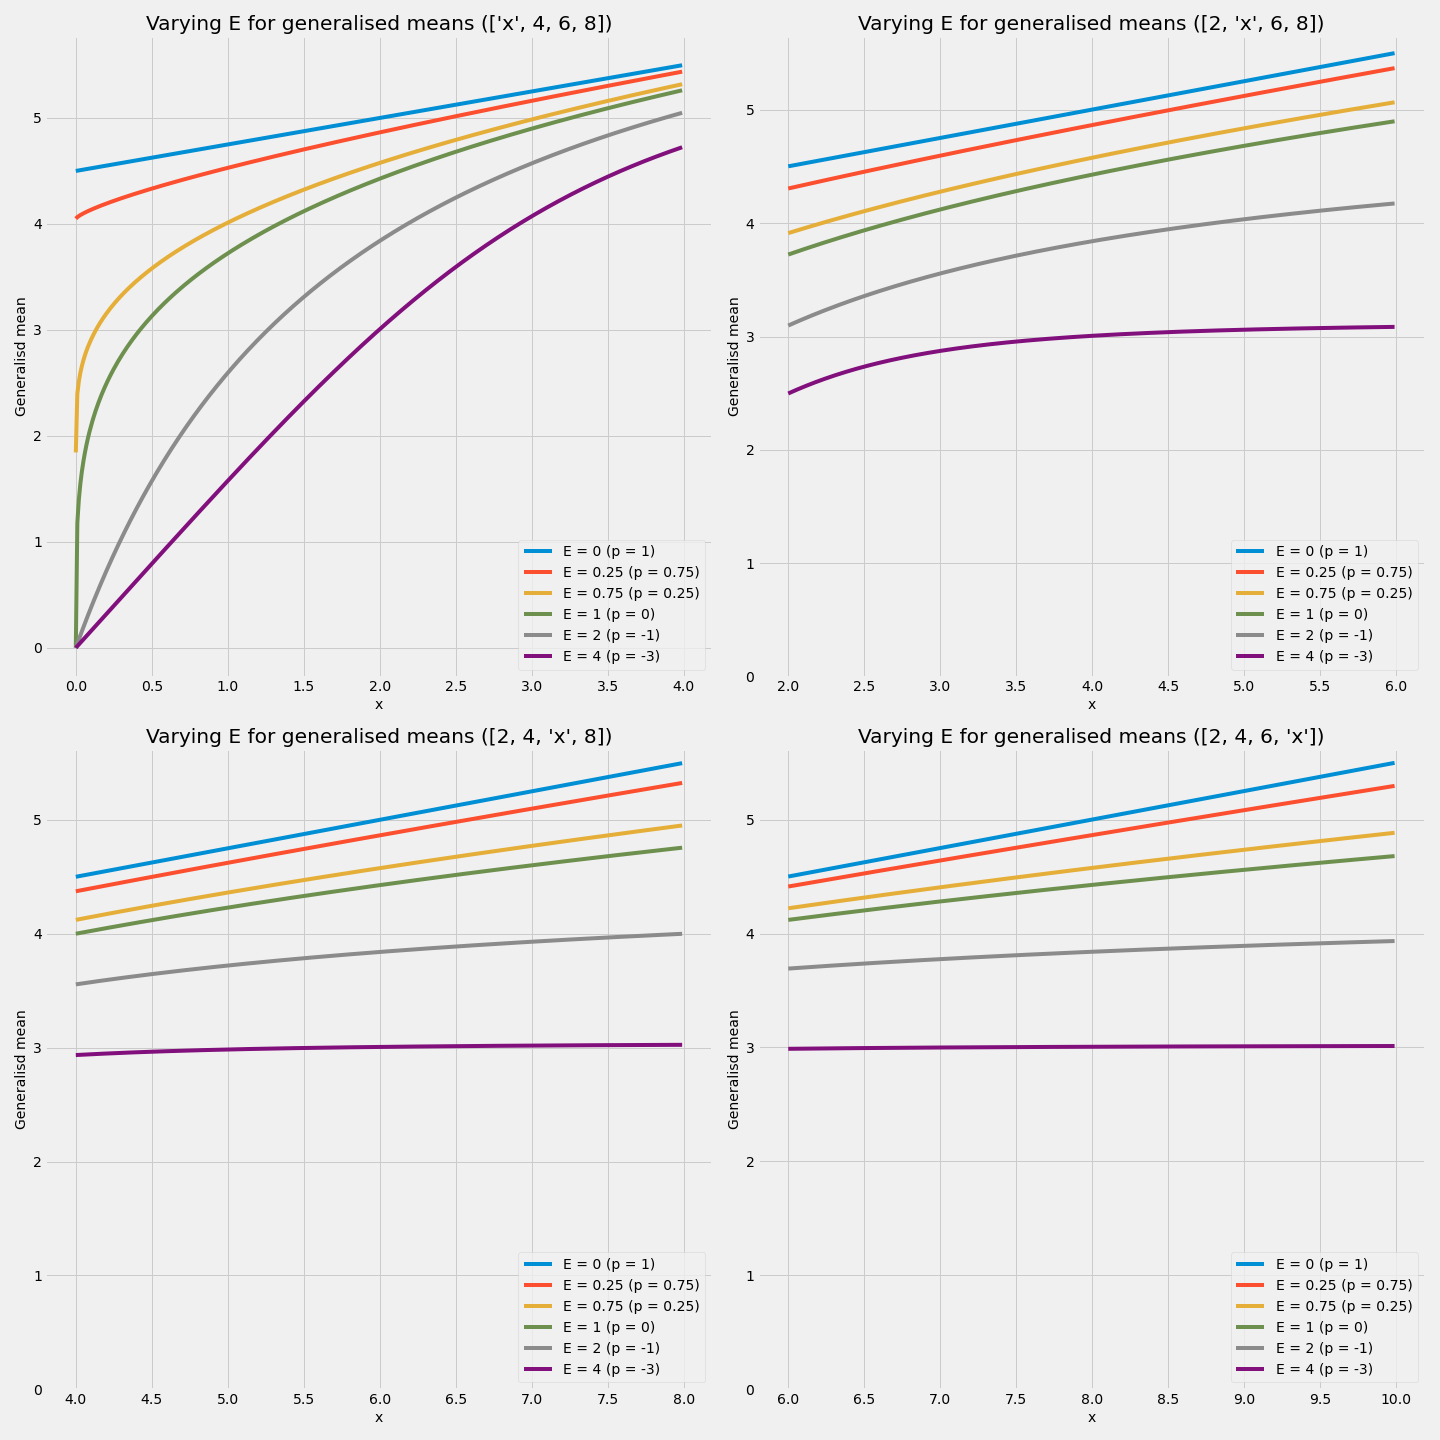
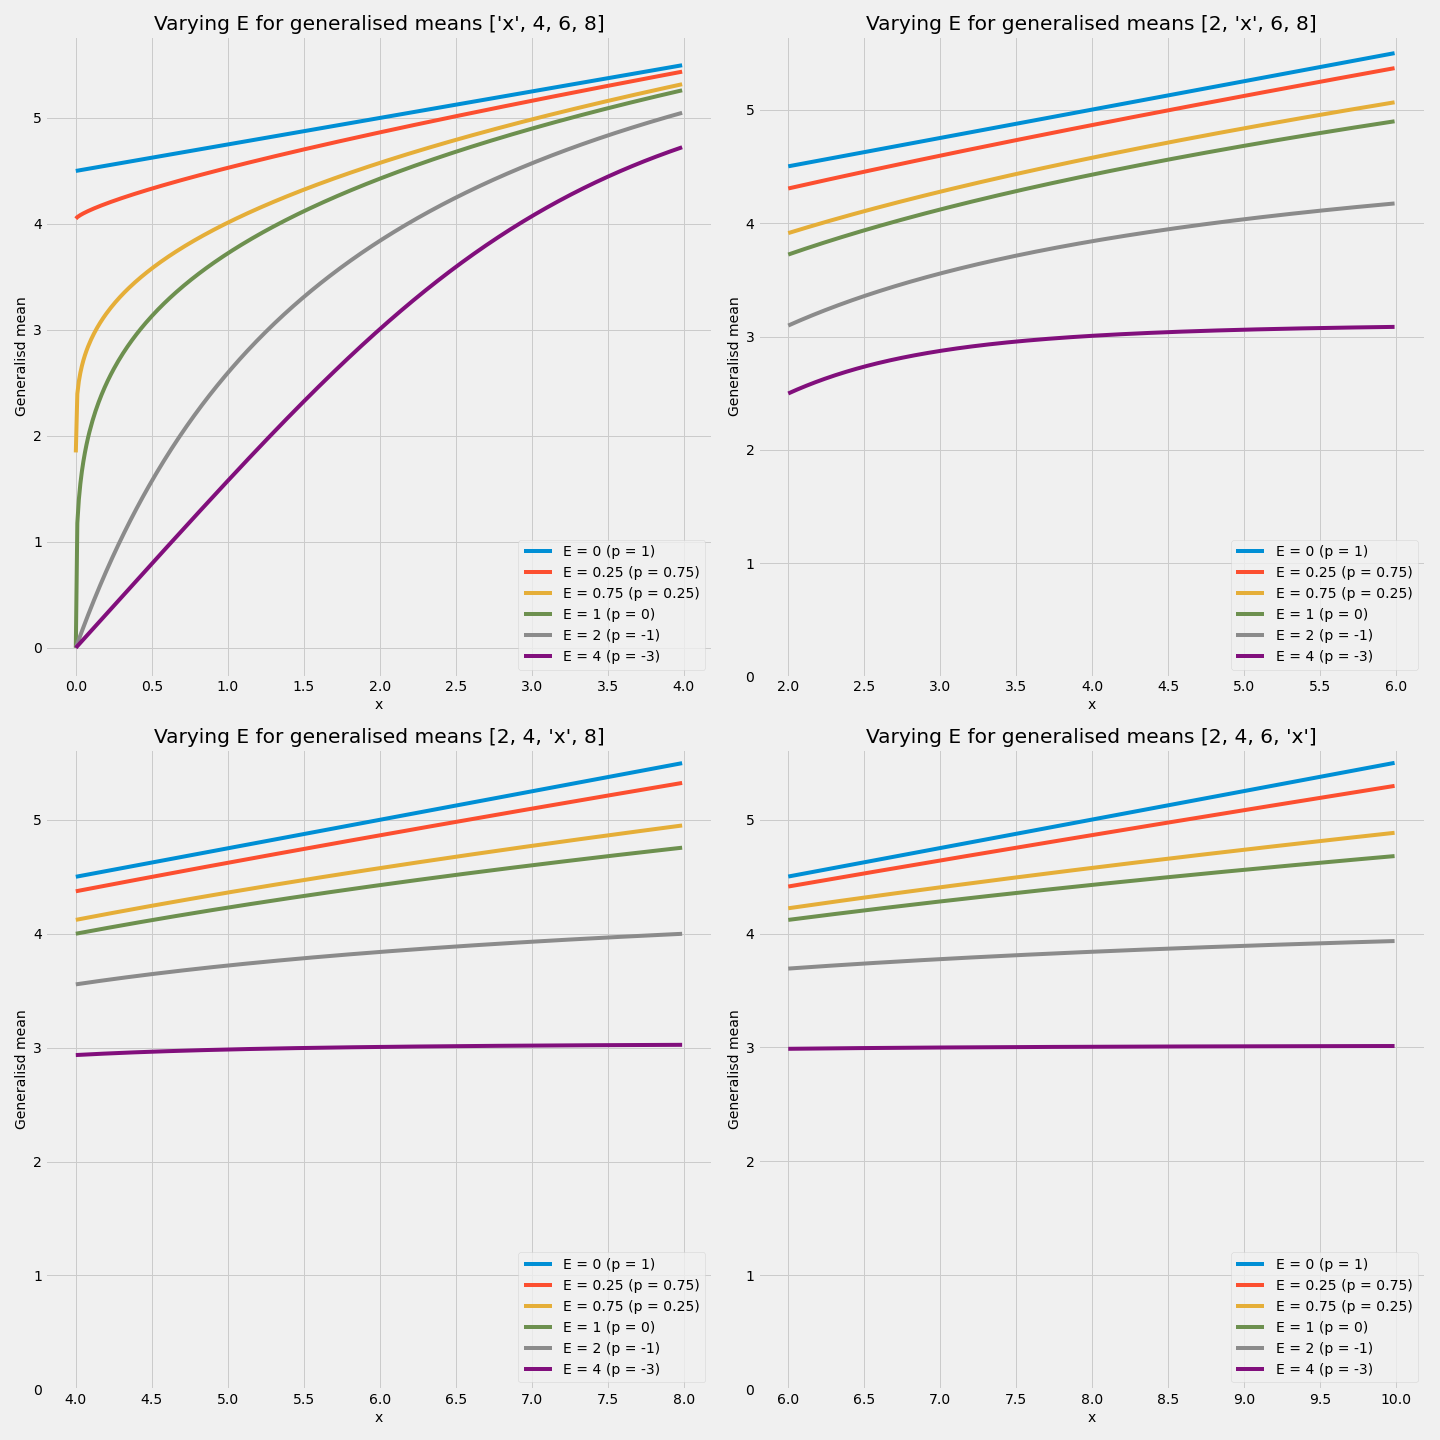
general update

diff --git a/code/effect of e on atkinson.py b/code/effect of e on atkinson.py
@@ -1,0 +1,76 @@
+# -*- coding: utf-8 -*-
+"""
+Created on Wed May 29 17:53:34 2024
+
+@author: user
+"""
+
+import pandas as pd
+import numpy as np
+import matplotlib.pyplot as plt
+import math
+from scipy.stats import gmean
+
+
+
+#### Generating income distributions
+
+
+#### Downloading existing income distributions
+#/ From Milanovic et al 2013, annual income per decile 1998-2008
+
+df = pd.read_stata('data/milanovic.dta')
+
+
+## Filter for only the largest 'year' values for each 'country'
+# This gets me a bunch of years around 2008
+df = df[df['year'] == df.groupby('country')['year'].transform('max')]
+
+# Remove any countries with at least one NAN in their income distributions
+df = df.groupby('country').filter(lambda x: x['RRinc'].notna().all())
+
+def generalised_mean2(x, p):
+    if p == 0:
+        return gmean(x)
+    else:    
+        return (np.sum(np.power(x,p)) / len(x))**(1/p)
+    
+
+inequal_results = []
+
+E_array = [0,0.25,0.75,1,2,4]
+
+for country in df['country'].unique():
+    print(f'Running {country}')
+    mean_results = []
+    value = df[df['country'] == country].iloc[:,10]
+    
+    arithmetic_mean = np.mean(value)
+    for E in E_array:
+        p = 1 - E
+        iai = arithmetic_mean * (generalised_mean2(value,p) / arithmetic_mean)
+        inequal_results.append({'country': country,
+                              'income': arithmetic_mean,
+                              'inequality-adjusted income': iai,
+                              'E': E})
+        
+inequal_results_df = pd.DataFrame(inequal_results)
+
+        
+## Plot it all
+
+plt.figure(figsize=(15, 15))
+for E in E_array:
+    plt.scatter(inequal_results_df[inequal_results_df['E'] == E].iloc[:,1],
+                inequal_results_df[inequal_results_df['E'] == E].iloc[:,2],
+                label = f'E = {E}')
+plt.title('Income and inequality-adjusted income per capita across levels of E')
+#plt.xlim(0,1)
+#plt.ylim(0,1)
+plt.xlabel('Income per capita')
+plt.ylabel('Inequality-adjusted income per capita')
+plt.xscale('log')
+plt.yscale('log')
+plt.grid(True)
+plt.legend()
+plt.show()

diff --git a/code/generalised mean.py b/code/generalised mean.py
@@ -80,7 +80,7 @@ def plot_generalised_means(dist, position, x_range, E_array):
        plt.plot(x_array, np.array([generalised_mean3(dist, x, position, p) for x in x_array]),
                 label = f'E = {E} (p = {p})')
    plt.yticks(np.arange(0,y_max))
-   plt.title(f'Varying E for generalised means ({dist_title})')
+   plt.title(f'Varying E for generalised means {dist_title}')
    plt.ylabel('Generalisd mean')
    plt.xlabel('x')
    plt.tight_layout()
@@ -88,7 +88,7 @@ def plot_generalised_means(dist, position, x_range, E_array):
    plt.legend(loc = 'lower right')
 
 plt.figure(figsize=(10,10))
-plot_generalised_means(dist = [1,2], position = 1, x_range = 4, E_array = E_array)
+plot_generalised_means(dist = [1,3], position = 1, x_range = 4, E_array = E_array)
 plt.savefig('viz/generalised mean simple dist.png')
 plt.show()
 

diff --git a/README.md b/README.md
@@ -41,13 +41,13 @@ We can simply demonstrate this by plotting the generalised mean of 1 and *x* acr
 
 The higher the parameter of E, the lower the generalised mean compared to the arithmetic mean (the blue line). But this is only the mean of two values and we want to understand how this "inequality aversion parameter" E responds to inequalities in a fuller income distribution.
 
-Below, I take a distribution representing average incomes at four quartiles. For each quartile, we vary its value while keeping the rest of the distribution fixed and plot the resulting generalised mean across different values of E.
+Below, I take a distribution representing average incomes at four quartiles. For each quartile, we vary its value while keeping the rest of the distribution fixed and plot the resulting generalised mean across different values of E. The line in blue represents the **arithmetic mean** whereas the line in green represents the **geomtric mean**, which is where a logarithmic relationship between income and utility is assumed.
 
 ![Image: Generalised means for quartile-segmented distribution](viz/generalised%20mean%20quartiles%20dist.png)
 
-A look at the first quartile (top left) compared the rest immediately shows how the Atkinson measure treats inequalities at the lower end of the distribution more severely. Recall that the distance between the arithmetic mean and the generalised mean(s) determines the level of inequality. In the first quartile, varying x creates both the most *and* the least inequality compared to any other quartile in the distribution.
+A look at the first quartile (top left) compared the rest immediately shows how the Atkinson measure treats inequalities at the lower end of the distribution more severely. Recall that the distance between the arithmetic mean and the generalised mean(s) determines the level of inequality. In the first quartile, therefore, varying x creates both the most *and* the least inequality compared to any other quartile in the distribution.
 
-In other words, making the lowest quartile particularly poor hugely affects increases the level of inequality determined across the whole income distribution. Whereas making it nearly indistinguishable to the quartile above it makes the whole income distribution more equal than when varying any other quartile. Comparatively, adjustments to the other quartiles yield only moderate levels of inequality at any level of that quartile.
+In other words, making the lowest quartile particularly poor hugely affects increases the level of inequality determined across the whole income distribution. Whereas making it nearly indistinguishable to the quartile above it also makes the whole income distribution more equal than when varying any other quartile. Comparatively, adjustments to the other quartiles yield only moderate levels of inequality at any level of that quartile.
 
 And what of the effect of E on how severely inequality is determined? In these graphs, we should focus less on the relative positions of the curves on the y-axis and more on the steepness of each individal curve to understand the effect of E. We can shed light on this artefact further by using real national income distributions.
 
